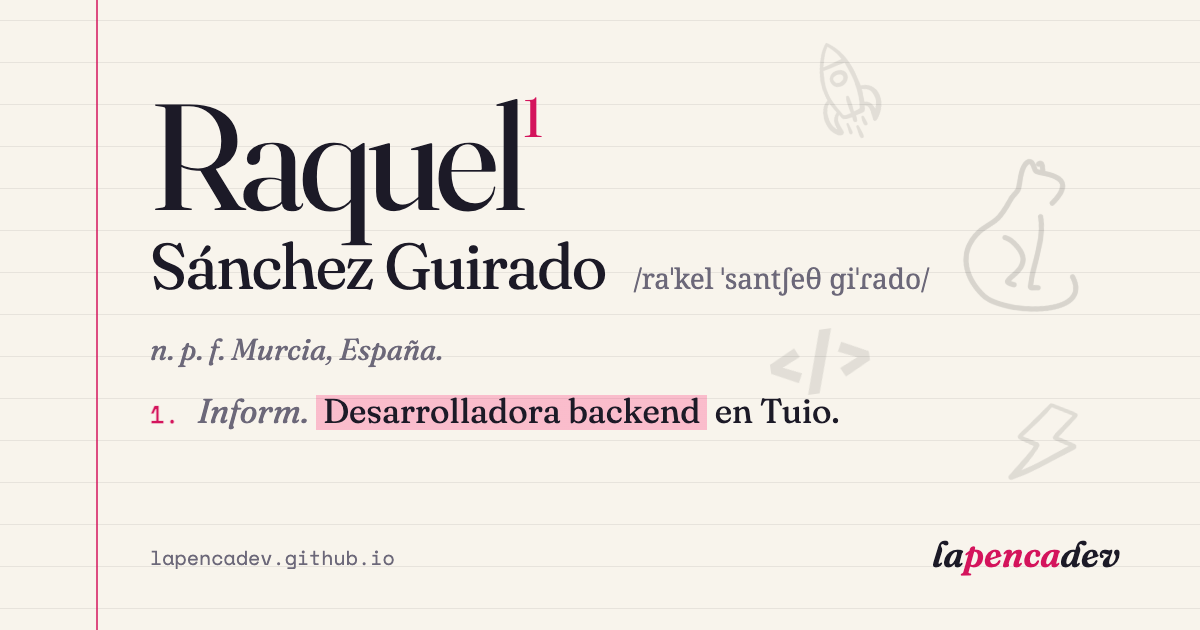
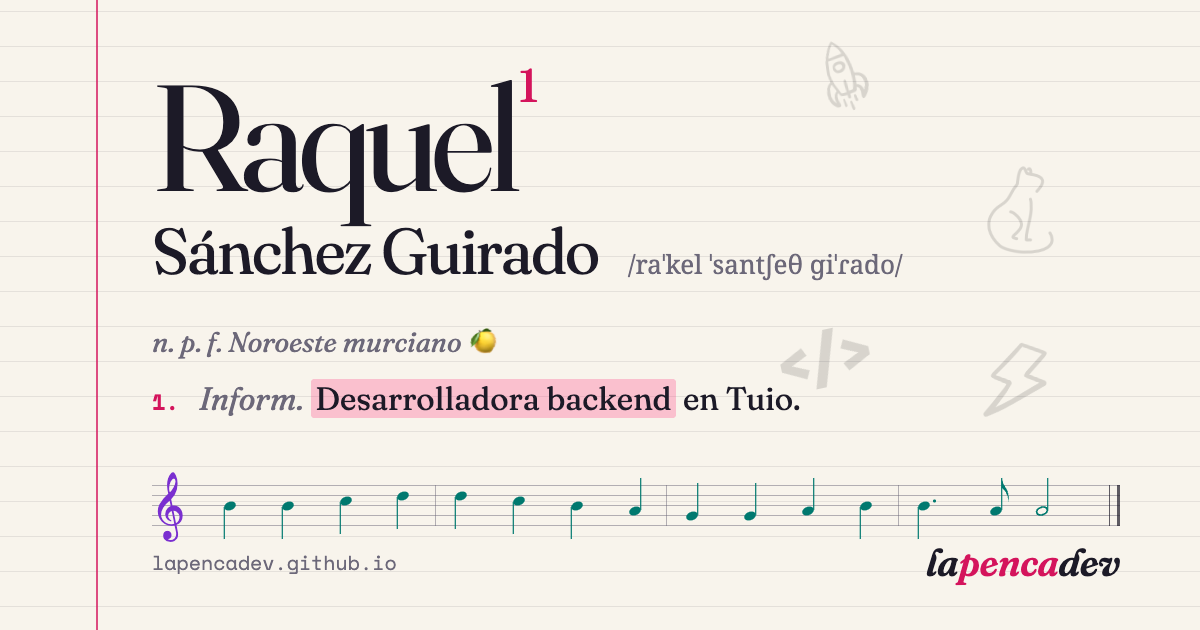
chore: tarjeta para compartir con nueva imagen, título y descripción

diff --git a/index.html b/index.html
@@ -4,14 +4,14 @@
     <meta charset="UTF-8" />
     <link rel="icon" type="image/svg+xml" href="/favicon.svg" />
     <meta name="viewport" content="width=device-width, initial-scale=1.0" />
-    <meta name="description" content="Desarrolladora backend con Java &amp; Spring Boot. Filóloga inglesa reconvertida a la programación, mentora en Step4ward y soprano aficionada." />
+    <meta name="description" content="Desarrolladora backend con Java y flujos agénticos. De la filología al código." />
     <title>lapencadev · Raquel Sánchez Guirado</title>
 
     <!-- Open Graph -->
     <meta property="og:type"        content="website" />
     <meta property="og:url"         content="https://lapencadev.github.io/" />
-    <meta property="og:title"       content="lapencadev · Raquel Sánchez Guirado" />
-    <meta property="og:description" content="Desarrolladora backend con Java &amp; Spring Boot. Filóloga inglesa reconvertida a la programación, mentora en Step4ward y soprano aficionada." />
+    <meta property="og:title"       content="Raquel Sánchez Guirado" />
+    <meta property="og:description" content="Desarrolladora backend con Java y flujos agénticos. De la filología al código." />
     <meta property="og:image"       content="https://lapencadev.github.io/og-image.png" />
     <meta property="og:image:type"   content="image/png" />
     <meta property="og:image:width"  content="1200" />
@@ -20,8 +20,8 @@
     <!-- Twitter / X Card -->
     <meta name="twitter:card"        content="summary_large_image" />
     <meta name="twitter:site"        content="@lapencadev" />
-    <meta name="twitter:title"       content="lapencadev · Raquel Sánchez Guirado" />
-    <meta name="twitter:description" content="Desarrolladora backend con Java &amp; Spring Boot. Filóloga inglesa reconvertida a la programación, mentora en Step4ward y soprano aficionada." />
+    <meta name="twitter:title"       content="Raquel Sánchez Guirado" />
+    <meta name="twitter:description" content="Desarrolladora backend con Java y flujos agénticos. De la filología al código." />
     <meta name="twitter:image"       content="https://lapencadev.github.io/og-image.png" />
     <meta name="theme-color" content="#f8f4ec" media="(prefers-color-scheme: light)" />
     <meta name="theme-color" content="#111019" media="(prefers-color-scheme: dark)" />
